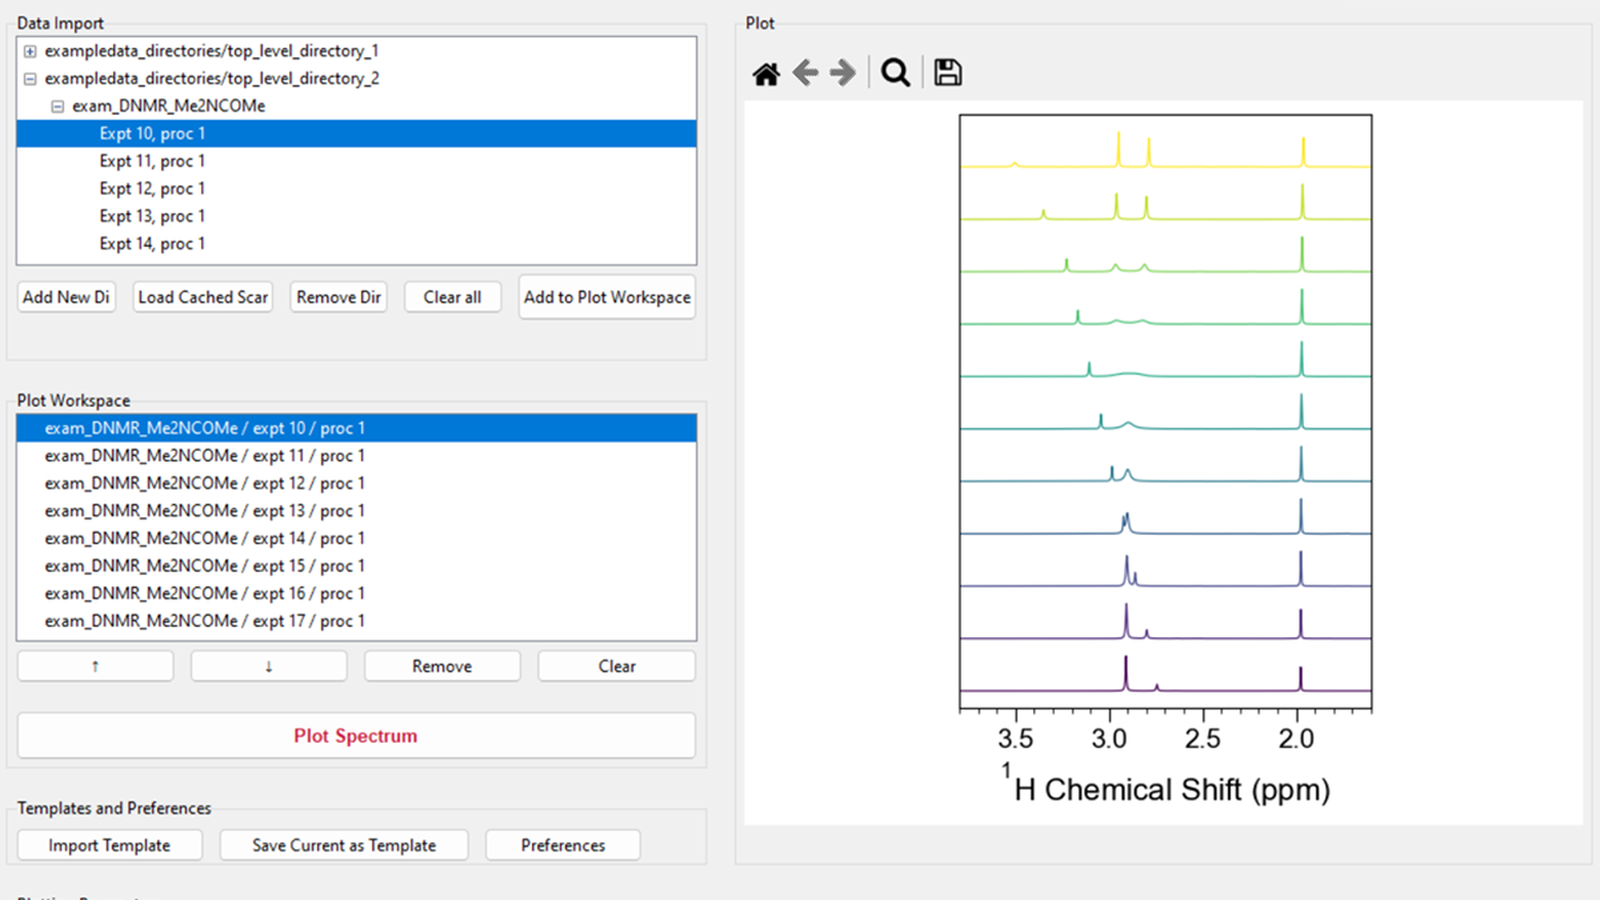
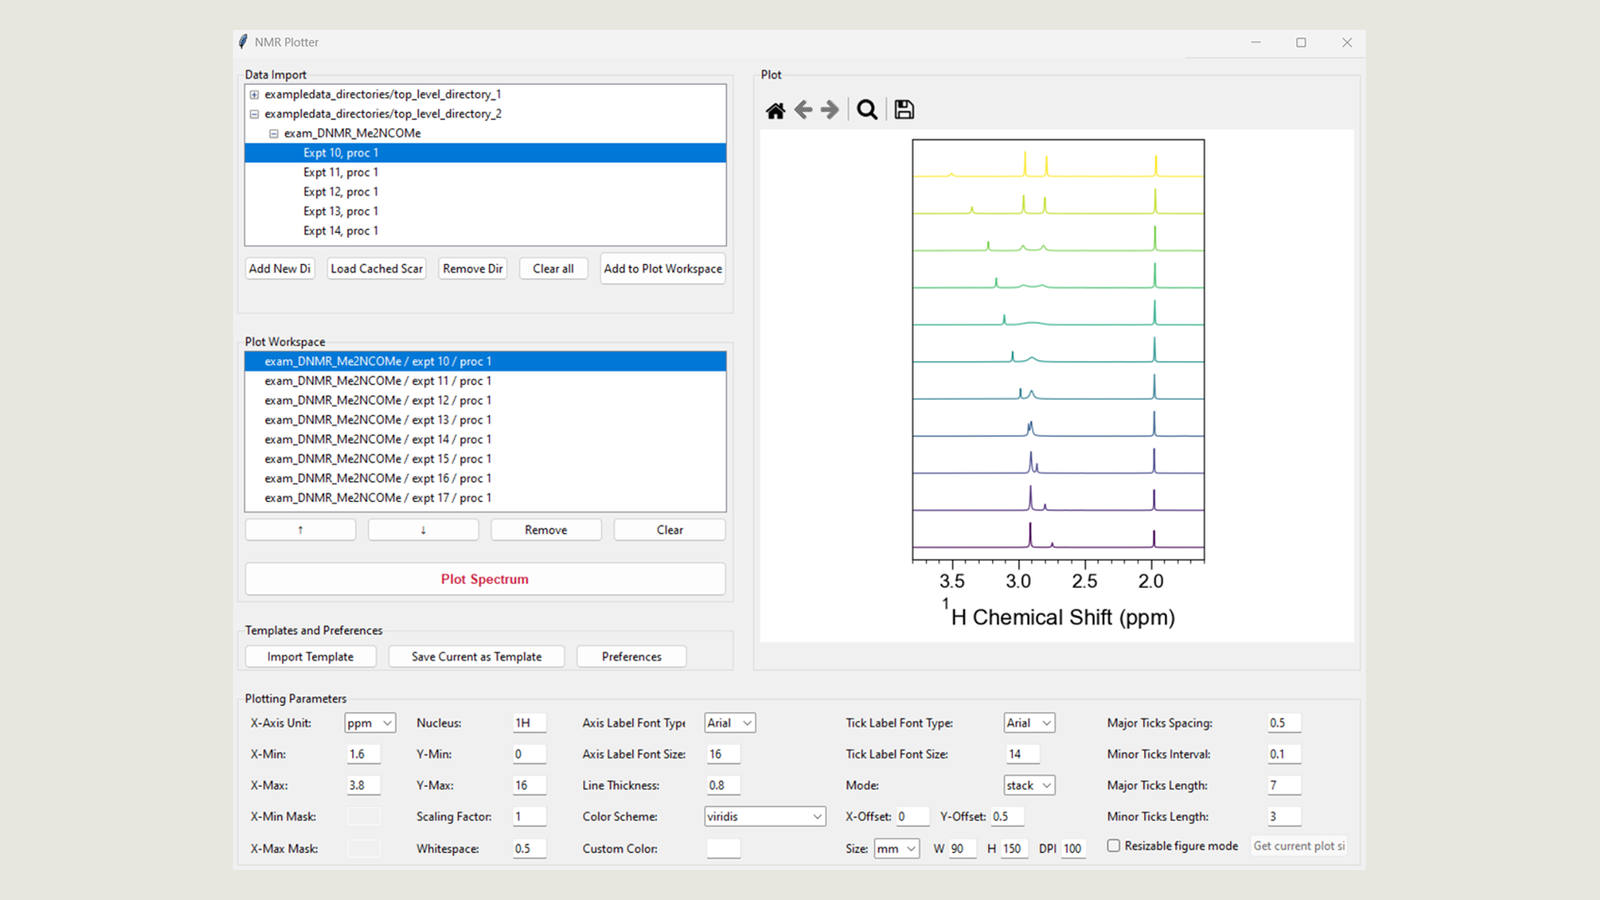
Show project images without cropping

diff --git a/src/styles/global.css b/src/styles/global.css
@@ -530,26 +530,46 @@ button {
   gap: clamp(72px, 8vw, 120px);
 }
 
+#projects .section-heading,
+#projects .featured-projects,
+#projects .more-projects {
+  grid-column: 1 / -1;
+}
+
+#projects .section-heading {
+  position: static;
+  max-width: 980px;
+  margin-bottom: clamp(48px, 6vw, 88px);
+}
+
 .project-card {
   display: grid;
-  grid-template-columns: 1.35fr 1fr;
-  gap: 32px;
+  grid-template-columns: minmax(0, 1.7fr) minmax(280px, 0.7fr);
+  gap: clamp(32px, 4vw, 72px);
   align-items: start;
+  padding-top: 28px;
+  border-top: 1px solid var(--line-dark);
 }
 
 .project-media {
   position: relative;
   overflow: hidden;
+  min-width: 0;
+  padding: clamp(8px, 1.2vw, 16px);
   border: 1px solid var(--line-dark);
   background: #e7e6df;
 }
 
 .project-media img {
   width: 100%;
-  aspect-ratio: 16 / 9;
-  object-fit: cover;
+  height: auto;
+  object-fit: contain;
   filter: grayscale(0.2);
   transition: transform 500ms var(--ease), filter 300ms ease;
+}
+
+.project-info {
+  min-width: 0;
 }
 
 .project-card:hover .project-media img {
@@ -567,8 +587,7 @@ button {
 }
 
 .project-heading {
-  padding-top: 14px;
-  border-top: 1px solid var(--line-dark);
+  padding-top: 0;
 }
 
 .project-heading h3 {
